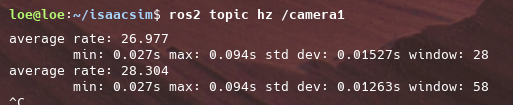
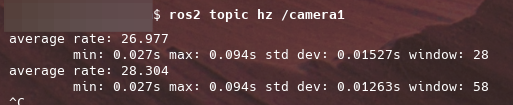
Redact study images and update profile affiliation

Changed region(s): [[0.0, 0.0286, 0.3119, 0.3143]]

diff --git a/src/data/profile.ts b/src/data/profile.ts
@@ -2,7 +2,7 @@ export const profile = {
   name: '이성민',
   englishName: 'Seongmin Lee',
   role: 'Mechanical Engineering Student · Robotics / Physical AI',
-  university: 'Konkuk University',
+  university: 'Konkuk University (Senior)',
   department: 'Mechanical & Aerospace Engineering',
   location: 'Seoul, Republic of Korea',
   email: 'lsm010711@naver.com',
